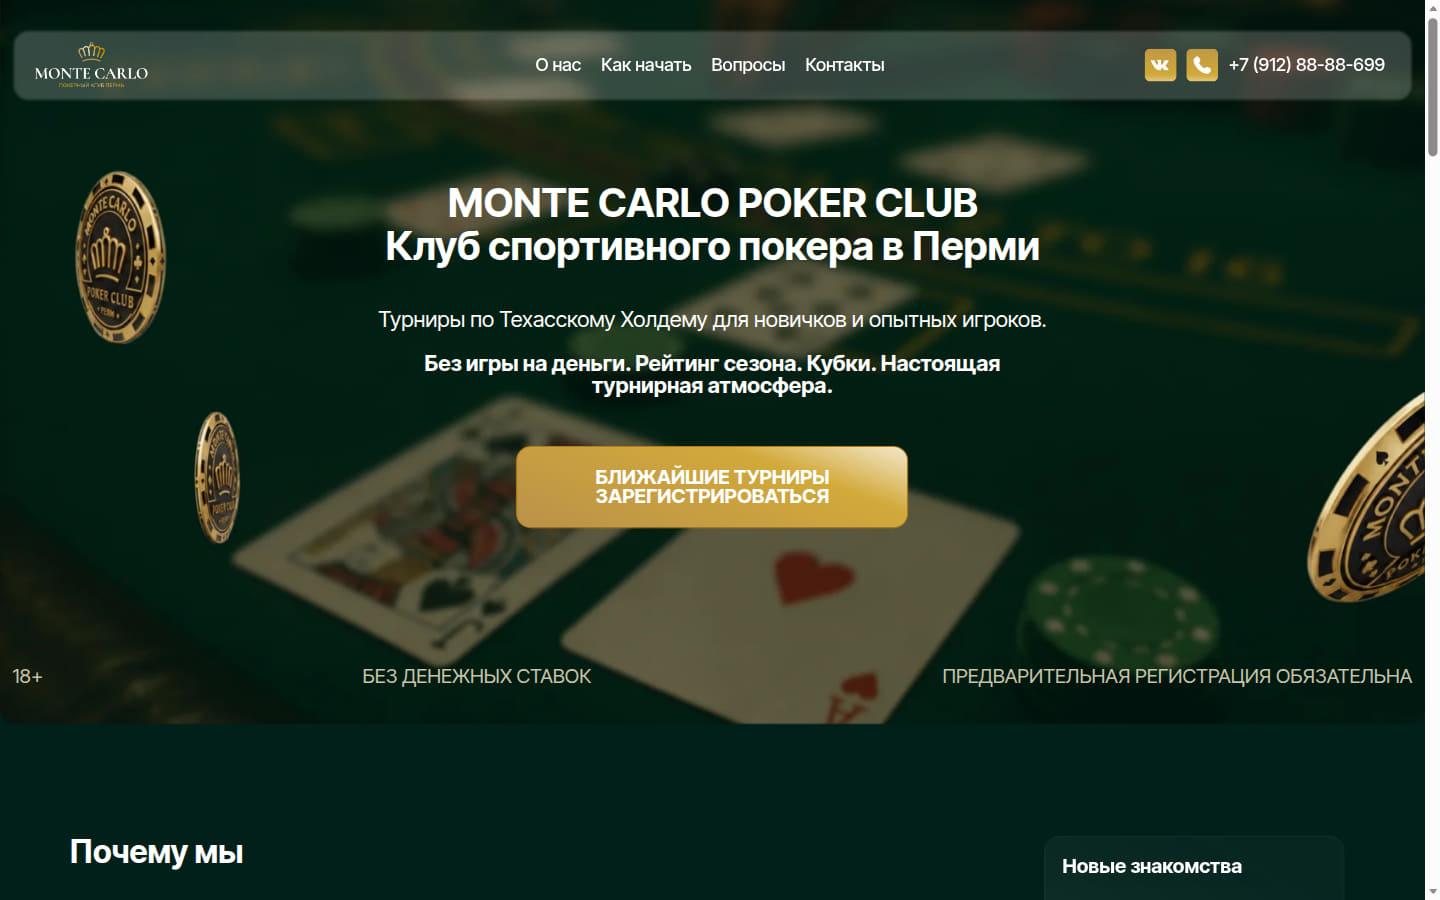
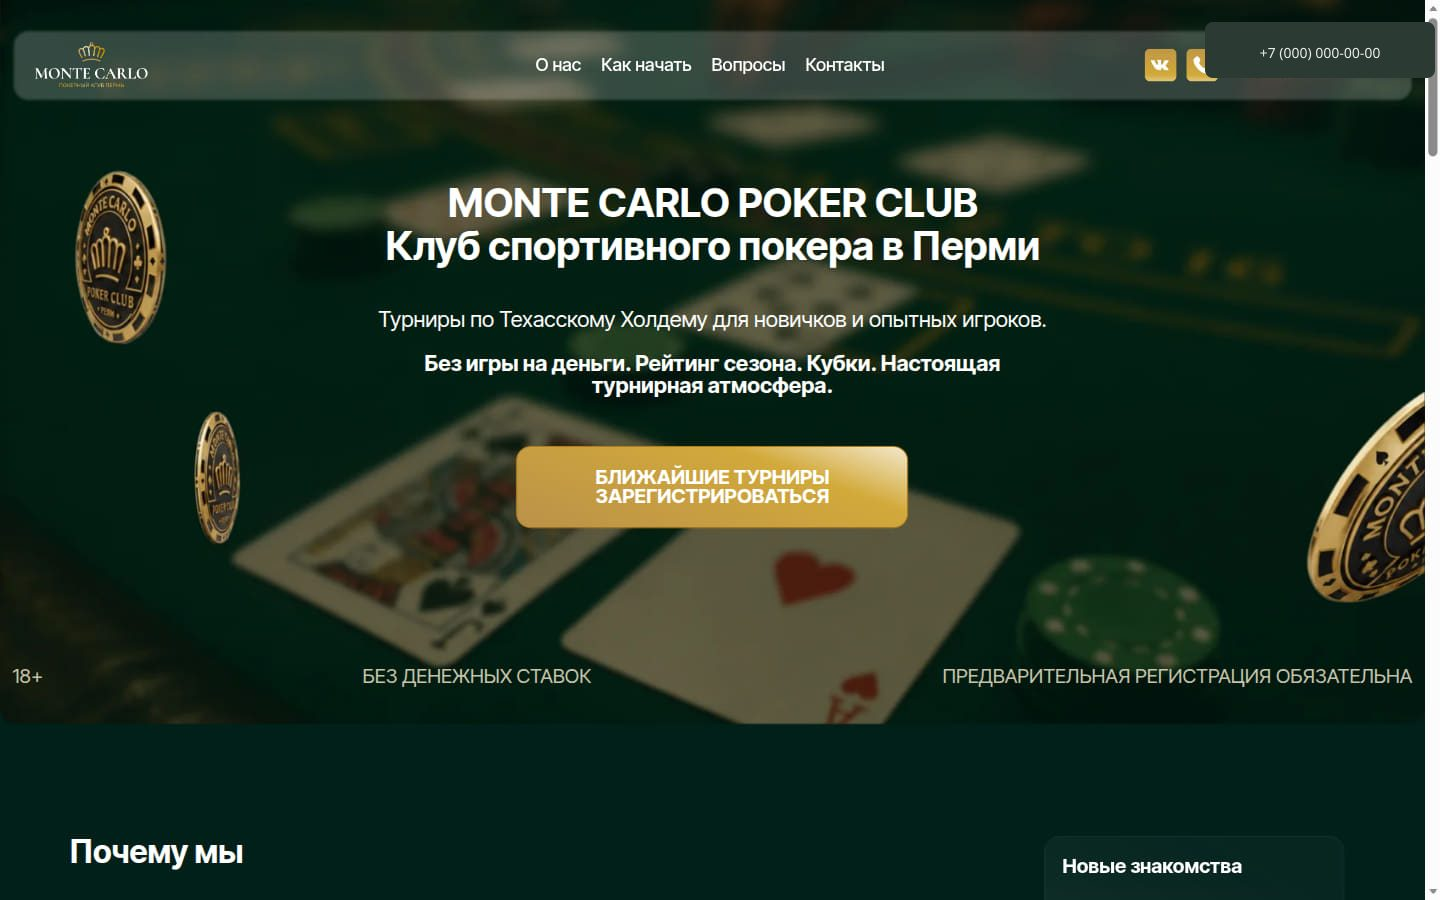
Убрать реальные телефоны и адрес из кейса покерного клуба
На странице кейса больше нет номеров клуба, улица заменена на плейсхолдер, сравнение 7 и 12 столов убрано, CTA описан без намёка на недостаток формы. На десктопных скриншотах до/после телефоны закрыты плейсхолдером.

diff --git a/src/data/projects.ts b/src/data/projects.ts
@@ -202,7 +202,7 @@ export const projects: Project[] = [
       note: "Инициативный концепт редизайна, не клиентский заказ. Открывается на monte-carlo.web-dev.su. В подвале концепта указано: «Придумал и разработал Михаил Чугаев».",
     },
     summary: [
-      "Исходный публичный сайт — pokerperm.ru. На нём клуб назван Monte Carlo Poker Club, адрес Пермь, ул. Монастырская, д. 59, на обоих вариантах написано «без денежных ставок» и «18+».",
+      "Исходный публичный сайт — pokerperm.ru. На нём клуб назван Monte Carlo Poker Club. Город — Пермь; улица в материалах этого портфолио заменена на плейсхолдер «улица Примерная, д. 1». На обоих вариантах написано «без денежных ставок» и «18+».",
       "Концепт — моя инициатива: пример посадочной с заявкой для локального сервиса. Это не внедрение на домене клуба и не совместный релиз. Клуб в тексте кейса не выступает заказчиком.",
     ],
     task: [
@@ -215,10 +215,9 @@ export const projects: Project[] = [
     ],
     work: [
       "Собрал одностраничник с одним h1, секциями с заголовками и lang=\"ru\". В HTML исходного сайта заголовков h1–h6 нет, разметка Tilda.",
-      "На концепте шапка держит телефон и кнопку «Оставить заявку»; заявка, как и на исходном сайте, уходит в VK-сообщения клуба, отдельной HTML-формы нет ни там, ни там.",
-      "На концепте один номер +7 (912) 888-86-99; на исходном сайте рядом ещё +7 (902) 630-99-99.",
-      "Карта: исходный сайт встраивает поиск Яндекса по адресу, концепт — карточку организации Monte-Carlo в тёмной теме.",
-      "На первом экране концепта указано «12 столов», на исходном сайте — «7 столов». Это текст страниц, не проверка зала.",
+      "На концепте в шапке кнопка «Оставить заявку» — тот же путь в VK-сообщения, что и на исходном сайте.",
+      "На первом экране концепта указано «12 столов»: клуб расширился, концепт отражает текущее число.",
+      "Карта: исходный сайт встраивает виджет Яндекса, концепт — карточку организации в тёмной теме.",
     ],
     results: [
       "Замеры 9 ноября 2026, Lighthouse 13.6.0, CLI, пресеты desktop и mobile. Это не гарантия прод-скорости клуба.",

diff --git a/src/components/BeforeAfterCompare.tsx b/src/components/BeforeAfterCompare.tsx
@@ -90,9 +90,10 @@ export function BeforeAfterCompare({ pairs }: BeforeAfterCompareProps) {
         <PairSlider key={pair.beforeSrc} pair={pair} />
       ))}
       <p className="text-sm leading-relaxed text-muted-foreground">
-        Скриншоты первого экрана сняты 9 ноября 2026 года. Ползунок показывает
-        исходный сайт слева и концепт справа. Это не кадры с домена клуба после
-        внедрения — концепт открывается по отдельной ссылке.
+        Скриншоты первого экрана сняты 9 ноября 2026 года. Телефоны на кадрах
+        заменены на плейсхолдер. Ползунок показывает исходный сайт слева и
+        концепт справа. Это не кадры с домена клуба после внедрения — концепт
+        открывается по отдельной ссылке.
       </p>
     </div>
   );
